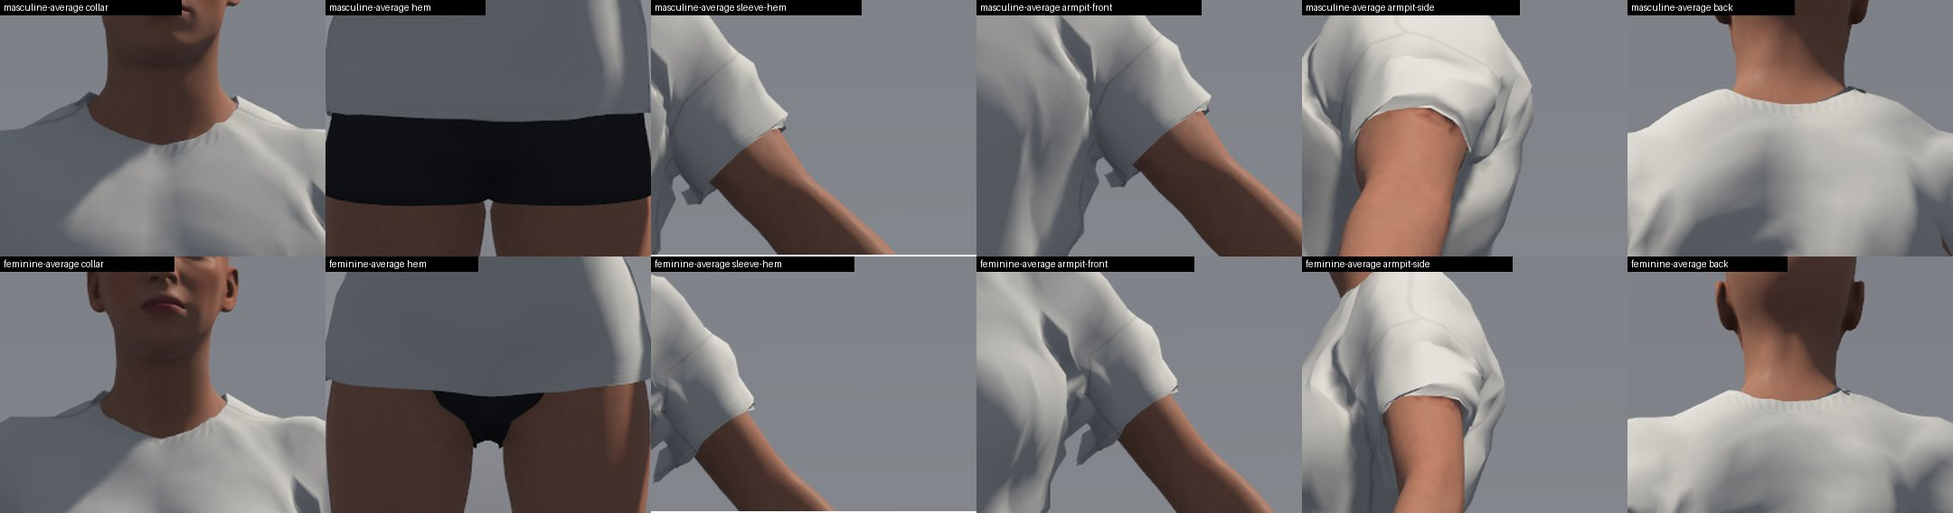
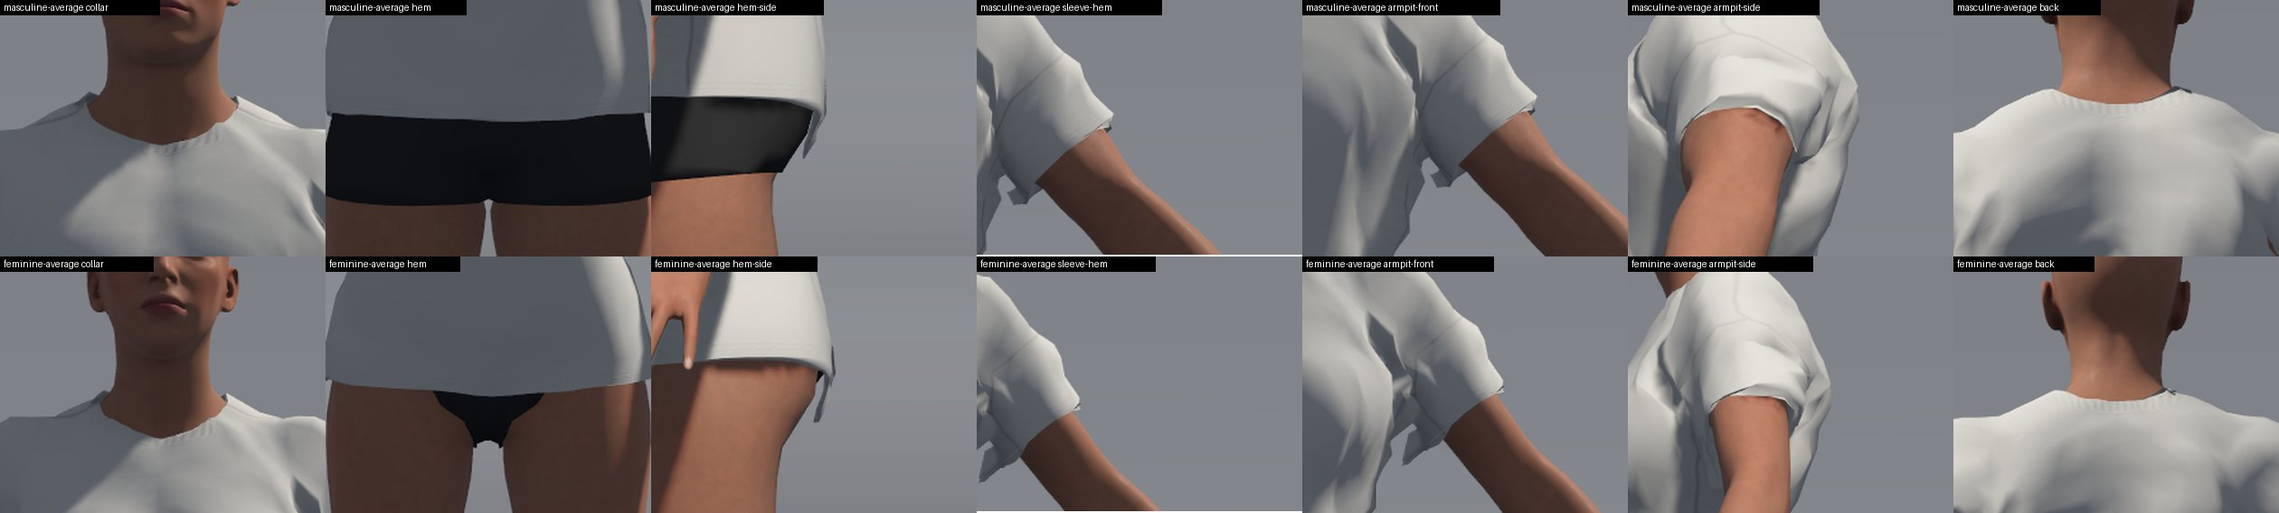
Wave 5 Licensed Tee: Review Fixes 2, the Hanging Hem Tab Traced to the Fit
The review found one blocking problem: an unreported defect and an
understated one. The tee still fails decision 13 and stays Draft.

- The tab below the waist hem is the hem's centre back. It hangs in a
  point 55 to 63 mm below the back hem on every cast body at rest, in
  the T-pose and with the elbows bent or the arms raised. With the arms
  forward it is 51 to 60 mm. In 5 of the 15 sampled walk frames it hangs
  free of the body. The gate's dumps trace it to the engine fit's
  between-corners pass. The pass pushes the hem's lower edge down round
  after round: 24 mm at rest, 67 mm after the extremes' lifts. The
  refined hem is level.
- Limiting the pass to a triangle's sagitta removes the tab (4 mm) but
  raises the tee's worst records. So it is measured as E8 and not
  committed.
- The arms-raised flaps are on every cast body: 323 to 374 triangles
  are stretched to 299 to 313 mm.
- The crop sheets gain a side-view hem tile. Two new sheets: hem-side
  and the traced dump.
- Non-blocking: intake.py's step table, the unwrap in section 1, and
  Known-Limitations' missing defects.

diff --git a/crates/player/src/tee_crew_tests.rs b/crates/player/src/tee_crew_tests.rs
@@ -309,6 +309,21 @@ fn the_licensed_tee_stays_steady_in_the_run() {
 // - The walk with the right arm back (Walk@0.367), masculine average,
 //   heavyset and muscular: a skin speck of 7 to 11 mm on the back of the
 //   right sleeve just above its hem.
+// - Arms raised, every cast body (front, side and back): flaps about 10
+//   to 15 cm long hang from both sleeves' undersides, the sleeve hems'
+//   turn-up stretched (323 to 374 triangles over twice their rest length,
+//   the longest edge 299 to 313 mm, on the ten cast bodies' dumps).
+// - Rest, the T-pose, the elbows bent, the arms raised and forward, every
+//   cast body (review fixes 2): the waist hem's centre back hangs in a point
+//   55 to 63 mm below the back hem beside the buttocks, into the cleft and
+//   free of the body below them; from the side it reads as a strip hanging
+//   behind the thighs (up to 26 to 34 mm behind the body's back edge). In
+//   the walk it is 11 to 54 mm, and it stands free of every cast body in 5
+//   of the 15 sampled frames (in 2 more on two). The engine fit made it: the
+//   refined hem is level (the point is 4 mm without the push-out's
+//   between-corners pass), and that pass pushes the hem's lower edge down along the
+//   cloth's normal there, round after round: 24 mm at rest, 67 mm after the
+//   extremes' lifts (`tee-licensed.md`, review fixes 2).
 
 const fn known(garment: &'static str, pose: &'static str, cases: usize, worst: f32) -> Known {
     Known {

diff --git a/assets/characters/realistic/import/intake.py b/assets/characters/realistic/import/intake.py
@@ -13,7 +13,7 @@ The steps, in order (each also runs alone: `python -I <step>.py --help`):
 | load | `load.py` | `loaded.npz`, `textures/` |
 | topology | `topology.py` | `topology.npz` (report, fixes, retopology help) |
 | conform | `conform.py` | `conformed.npz` (placed, posed to the rest pose) |
-| refine | `refine.py` | `refined.npz` (only with a `refine` block: resolution, cloth laid on the skin, bands, turned hems) |
+| refine | `refine.py` | `refined.npz` (only with a `refine` block: unwrap, bands, turned hems, maps) |
 | weights | `skinning.py` | `weighted.npz` |
 | levels | `levels.py` | `lod0.npz`, `lod1.npz`, ... |
 | checks | `checks.py` | `checks.json` (asset-quality.md section 2) |

diff --git a/docs/development/character-studio/refinement/wave5/tee-licensed.md b/docs/development/character-studio/refinement/wave5/tee-licensed.md
@@ -32,7 +32,7 @@ No dependency added (Pillow is part of the Blender Python environment the intake
 - **Record:** `assets/characters/realistic/clothing/tee-crew/Shirt_TeeCrew.provenance.json`, written by the intake from the spec.
   - Asset "Plain T-shirt" by Introspective Mnisi; source page `https://www.blendkit.com/asset-gallery-detail/cd6d0347-484a-426c-9c72-9b8c117ef500/`; licence CC0-1.0 (`https://creativecommons.org/publicdomain/zero/1.0/`); retrieved 2026-11-18.
[1 lines of base64/hex data omitted]
-  - Changes, as the intake listed them: 112 split corners welded; placed on the realistic body; a rib band from the faces along the neck; turned hems (3 mm thick, 18 to 20 mm turned up) at every open edge; maps baked again from Poly Haven's Cotton Jersey (CC0), the source's own maps dropped; simpler copies by decimation; fitted, rigged and given the body's shapes by the engine's fit; materials rebuilt.
+  - Changes, as the intake listed them: 112 split corners welded; placed on the realistic body; texture coordinates laid out again (Blender's conformal unwrap along the source's own seams; listed since review fixes 1); a rib band from the faces along the neck; turned hems (3 mm thick, 18 to 20 mm turned up) at every open edge; maps baked again from Poly Haven's Cotton Jersey (CC0), the source's own maps dropped; simpler copies by decimation; fitted, rigged and given the body's shapes by the engine's fit; materials rebuilt.
 - **Evidence** (`docs/.../wave5/tee-licensed/evidence/`, kept byte for byte by a `.gitattributes`). The record's `evidence` quotes each page and gives its hash:
   - the asset's page as retrieved (`asset-page-2026-11-18.html`, SHA-256 `4fd43b0c…f2`): "license: Creative commons zero", the author, "published 17 Sep 2026". The URL redirects to the asset's base ID, `126dea9d-…`;
   - BlenderKit's API record of the asset (`api-record-2026-11-18.json`, `a2df1cf1…20`): `license: cc_zero`, `verificationStatus: validated`;
@@ -94,6 +94,7 @@ Each row is the intake run again and the tee's whole gate (54 bodies: rest, Idle
 | E5 | E4 with a one-row fold | 34 / 13.5 | 48 / 19.9 | 54 / 19.3, 54 / 19.6, 54 / 22.3 | 54 / 23.5 | 36 / 14.4 | 35 / 14.4 | 34 / 13.5 | |
 | E6 | E4 + a gate rule: a turned hem's fold is a hem edge, grown two rings like an open edge (not committed) | 0 | 51 / 19.9 | 54 / 19.3, 54 / 14.0, 54 / 22.3 | 54 / 30.5 | 5 / 3.7 | 1 / 24.6 | 0 | |
 | E7 | E4 + the fold rule without growing it (not committed) | 1 / 4.7 | | | | | | | |
+| E8 | Final + the between-corners pass limited to the sagitta a triangle that size can have over a 4 cm limb (review fixes 2, not committed) | 4 / 36.7 | 53 / 24.9 | 54 / 39.2, 54 / 40.1, 54 / 39.3 | 54 / 38.7 | 9 / 25.0 | 6 / 37.9 | 4 / 42.3, 4 / 36.7 | run within its record; LOD1 13 / 13.2, LOD2 10 / 34.5 |
 | **Final** | E4 with the texture coordinates unwrapped (committed) | 7 / 28.2 | 53 / 37.9 | 54 / 32.5, 54 / 31.3, 54 / 32.0 | 54 / 30.2 | 14 / 28.2 | 7 / 28.2 | 8, 7 / 28.2 | walk passes (1.3 mm), **run 6.0 mm** |
 
 **What the table says.**
@@ -155,7 +156,8 @@ Lower them as the item improves; a production item has none.
 - `tee-<pose>.jpg`: the eight cast bodies (masculine slim, average, heavyset, muscular, then the same feminine), a row each, front, side and back, studio light, cropped to the upper body.
 - `tee-<pose>-hard.jpg`: the two average bodies under the hard light.
 - `before-after-<pose>.jpg`: the wave-4 crew tee (left three) against the licensed tee (right three) on the average bodies.
-- `crops-<pose>.jpg`: full-size crops of the collar, hem, sleeve hem, armpit (front and side) and back.
+- `crops-<pose>.jpg`: full-size crops of the collar, hem, sleeve hem, armpit (front and side) and back; since review fixes 2 also `hem-side`, the waist hem's back seen from the side.
+- `hem-side.jpg` (review fixes 2): the waist hem's back from the side on the eight cast bodies at rest, in the T-pose, the walk's passing frame, the walk with the right arm back and the arms forward. `hem-tab-traced.jpg`: the gate's dump drawn flat, the hanging centre back in red.
 
 The poses: `rest`, `walk-right-arm-forward` (`Walk@0.7`), `walk-passing` (`Walk@0.183`), `walk-right-arm-back` (`Walk@0.367`), `arms-raised`, `arms-forward`, and since review fixes 1 `t-pose` (`tee-t-pose.jpg`, `-hard.jpg`, `before-after-t-pose.jpg`, `crops-t-pose.jpg`, cropped wider for the arms; its crops take the underarm from the front and the back).
 
@@ -165,6 +167,7 @@ The poses: `rest`, `walk-right-arm-forward` (`Walk@0.7`), `walk-passing` (`Walk@
   - No skin through the cloth and no holes. The wave-4 tee next to it shows black holes at the waist on both bodies; the licensed tee has none.
   - **It is not natural.** Pushed out of the bodies from a smaller base, it hugs every form: the masculine pectorals, the scapulae and the spine's groove read through it like paint, and its back hem dips to a point over the buttocks.
   - On the feminine bodies the hem wraps the buttocks like a bodysuit (the back views).
+  - **The waist hem's centre back hangs in a point below the buttocks** on every cast body (found by the second review; measured in review fixes 2, below). From the side it reads as a strip hanging free behind the thighs (`hem-side.jpg`, `crops-rest.jpg` hem-side tiles).
   - **Small cloth tabs hang at the underarm** of every body, about 1 cm. Masculine average: the sleeve-hem crop (760, 215) and the armpit-front crop (1235, 215).
   - The neck band's rib and the hems' turned edges read. The neckline dips about 1 cm into a shallow V at the centre front (the collar crops).
   - The sleeve hem's edge on the masculine average shows a thin dark line where it meets the arm (the armpit-side crop, 1500 to 1560, 140).
@@ -173,7 +176,7 @@ The poses: `rest`, `walk-right-arm-forward` (`Walk@0.7`), `walk-passing` (`Walk@
   - **Skin specks through the belly** on the four masculine bodies, about 6 mm, just above the navel. Front column, about (204, 276), (204, 666), (204, 1056) and (204, 1440) in the sheet.
   - **The hem rides up into the crotch and wraps the thighs and buttocks**, worst on the feminine bodies: the tee reads as a bodysuit. The hem's corners follow the upper legs' weights.
   - The other walk frames (`tee-walk-right-arm-forward.jpg`, `tee-walk-passing.jpg`) show the same armpit flaps and the hem's wrap.
-- **Arms raised** (`tee-arms-raised-hard.jpg`). **Long dark flaps hang from the sleeves' undersides** on both bodies: flipped cloth about 8 to 10 cm long, worst in the side views. That is mesh separation, which the gate doesn't count.
+- **Arms raised** (`tee-arms-raised.jpg`, `tee-arms-raised-hard.jpg`). **Long flaps hang from the sleeves' undersides on every cast body**, in the front, side and back views (corrected in review fixes 2; the first hand-back said "both bodies", meaning the two on the hard-light sheet): flipped cloth about 10 to 15 cm long, worst in the side views. In the gate's dumps of the ten cast bodies, 323 to 374 triangles stretch over twice their rest length, the longest edge 299 to 313 mm, and 95% or more of them have a corner within 25 mm of an open edge (the sleeve hems' turn-up). That is mesh separation, which the gate doesn't count.
 - **Arms forward**: the shoulder's top by the neck and the front armpit, as the gate says (54 bodies). Added in review fixes 1: **a white cloth spike sticks out at the side of the armpit** in the side view of every cast body (`tee-arms-forward.jpg`, side column, under the sleeve; `crops-arms-forward.jpg`, armpit-side and sleeve-hem tiles of both average bodies). The sleeve-hem crop is now framed on the sleeve in the side view, where its end faces the camera; the first sheet's tile was empty background.
 - **Added in review fixes 1** (the review found these in the sheets; the first hand-back didn't report them):
   - **T-pose, detached strips under both arms, every cast body** (`tee-t-pose.jpg`, front and back columns; `crops-t-pose.jpg`, underarm-front and underarm-back). Two or three long, thin strips hang diagonally from the sleeve's underside towards the side, with background between them and the body: mesh separation. Visible length about 15 cm on the masculine average body (106 px at 1.45 mm a pixel, scaled by the arm span) and up to 20 cm on the feminine ones. The gate's dumps (`AXCENITY_FIT_GATE_DUMP`, masculine and feminine average) say what they are: triangles 3202 to 3204, 3363 to 3444 and their neighbours, at the sleeve's end under the arm, with rest edges of 1.2 to 4.8 mm (the sleeve hems' fold and turn-up: 793 of the tee's 853 triangles with an edge under 5 mm are in the hems' range), stretched 3 to 111 times, the longest edge 167 mm (masculine) and 200 mm (feminine). 203 of the 4,080 triangles stretch over 2 times in the T-pose on the masculine average body, 82 over 5 times. The hem's corners nearest the side are 27 to 37 mm from the skin at rest, and the fit gives them the side's weights while the rest of the hem follows the arm. The wave-4 crew tee shows no strips in the same pose (`before-after-t-pose.jpg`; it shows its waist holes). No skin comes out, so the gate's T-pose record (7 bodies, the hem edges) doesn't count them.
@@ -194,7 +197,7 @@ The poses: `rest`, `walk-right-arm-forward` (`Walk@0.7`), `walk-passing` (`Walk@
    - no simulated folds.
 5. **Authorship of the base isn't confirmed** (section 1).
 6. **No tint variants**: the intake's manifest writes none. Colour roles are declared.
-7. **Cloth-only defects the gate doesn't count** (review fixes 1, section 5): the T-pose underarm strips (every cast body, 15 to 20 cm), the arms-forward spike at the side of the armpit (every cast body), the dark lip above the rib at the back of the neck (every cast body, at rest and in the walk; a 1 cm tab with the right arm forward), and a 7 to 11 mm skin speck on the back of the right sleeve in the walk (three masculine bodies). The first two are the sleeve hems' fold triangles under the arm, weighted partly to the side: the sleeve's turn-up should take the sleeve's weights, not the nearest skin's. A stretch check in the gate (a garment triangle's edges posed against rest) would catch them; none exists.
+7. **Cloth-only defects the gate doesn't count** (review fixes 1 and 2, section 5): the waist hem's centre back hanging in a point 55 to 63 mm below the back hem, free of the body below the buttocks (every cast body, at rest, in the T-pose, with the elbows bent, the arms raised and forward, and in 5 of the walk's 15 sampled frames; made by the engine fit's between-corners pass, review fixes 2), the arms-raised flaps under both sleeves (every cast body, 10 to 15 cm), the T-pose underarm strips (every cast body, 15 to 20 cm), the arms-forward spike at the side of the armpit (every cast body), the dark lip above the rib at the back of the neck (every cast body, at rest and in the walk; a 1 cm tab with the right arm forward), and a 7 to 11 mm skin speck on the back of the right sleeve in the walk (three masculine bodies). The first two are the sleeve hems' fold triangles under the arm, weighted partly to the side: the sleeve's turn-up should take the sleeve's weights, not the nearest skin's. A stretch check in the gate (a garment triangle's edges posed against rest) would catch them; none exists.
 
 ## At merge
 
@@ -267,3 +270,89 @@ I regenerated the record with the intake's export: the command in section 2 with
 | `python3 -I scripts/check-wiki.py` | 115 pages, 0 errors, 57 warnings |
 
 **At merge.** Nothing new beyond the list above. If you rebuild `tee-crew/*` after the merge, the provenance record now has the unwrap line. The records and the gate are unchanged.
+
+## Review fixes 2
+
+The second review found one blocking problem: a visible defect nobody had reported, and a reported one understated. Both are now in section 5, Open issue 7, the records comment in `crates/player/src/tee_crew_tests.rs` and the Known-Limitations entry. **The tee still fails and stays Draft; it is not ready for sign-off.**
+
+**1. The tab below the waist hem.** It is real, on every cast body. One correction to the review: it isn't at the side seam. It is the waist hem's **centre back**, which hangs in a point into the cleft between the buttocks and below them. The side camera sees that point edge-on, as a thin strip hanging behind the thighs at the back of the silhouette. The gate's dump drawn flat with the hanging corners in red (`hem-tab-traced.jpg`) shows where it is: the red corners are all within 10 cm of the spine (x from -0.100 to +0.109 m on feminine average), none at a side seam. In the back view of the captures it is the hem's dip between the buttocks.
+
+How I measured it: the gate dumped every cast body (`AXCENITY_FIT_GATE_DUMP`, `AXCENITY_FIT_GATE_DUMP_ONLY=cast-`) at rest, in the T-pose, with the elbows bent, the arms raised and forward, and at all 15 sampled walk frames. On each dump I took the back hem's lowest point beside the buttocks (|x| 10 to 14 cm) and at the centre (|x| under 5 cm). I also drew the tee and the body as orthographic side silhouettes at 0.5 mm a pixel.
+
+| Pose (10 cast bodies) | Centre-back point below the back hem | Behind the body's back edge, side view |
+|---|---|---|
+| Rest, T-pose, elbows bent, arms raised | 55 to 63 mm (feminine 55 to 61, masculine 57 to 63) | up to 26 to 32 mm, over 62 to 104 mm of height |
+| Arms forward | 51 to 60 mm | up to 27 to 34 mm |
+| Walk, 15 sampled frames | 11 to 54 mm | free of every body in frames 11, 14, 32, 35 and 38 (18 to 32 mm); in frames 8 and 17 on two feminine bodies; lying on the leg in the other 8 |
+
+The reviewer read 6 to 7 cm on feminine average and 2 to 4 cm on the masculine bodies from the pictures. The dumps say the point drops about as far on both frames. On the masculine bodies it reads shorter because it hangs in front of the black boxer briefs (`hem-side.jpg`, masculine columns), not against the background.
+
+**What makes it: the engine fit, not the source or the refine.** I followed the hem's centre back through the intake. The texture coordinates matched 2,388 of the shipped LOD0's 2,407 corners to the refined mesh.
+- Conformed (the source as placed): the back hem is level, its lowest point between 0.859 and 0.862 m across the back.
+- Refined (hems added): the same, 0.857 to 0.861 m.
+- Shipped: the centre back at 0.791 m. 80 corners within 10 cm of the spine moved down by up to 67 mm, and 12 mm towards the body.
+
+I then ran the engine's import (`import_garment --placed`, the spec's margin and lower layers) on the refined `lod0.obj` with temporary switches in `avatar::fit`. They are not committed. The centre-back point below the back hem on the masculine base, with each change:
+
+| Fit | After the rest push-out | After the extremes' lifts | Shipped point |
+|---|---|---|---|
+| As committed | 0.834 m (24 mm down) | 0.791 m | 63 mm |
+| Without the between-corners pass | 0.856 m | 0.856 m | 4 mm (feminine frame 10 mm) |
+| Without the extremes' lifts | 0.834 m | — | 24 mm |
+| The pass limited to a triangle's sagitta (E8) | 0.857 m | 0.856 m | 4 mm (feminine frame 9 mm) |
+
+So the wave-5 between-corners pass in `needs()` (`transfer.rs`) makes the tab: the pass meant for skin between a coarse garment's corners. Below the hem, the underside of the buttocks faces down, the same way as the turned hem's lower edge. So the skin there passes the "facing" test (`OVER_FACING`) and counts as skin between the cloth's corners. The pass then pushes the edge down along the cloth's normal by up to `BETWEEN_CORNERS` (12 mm). The next round finds the next row of skin, and every extreme's lift round pushes again. That makes 24 mm at rest and 67 mm in all. The review's guess was the thigh's weights or the push-out; it is the push-out. Weights don't move a rest position.
+
+**A measured fix, not committed (E8 in section 3).** I limited the pass to the skin a triangle of that size can actually have between its corners: its sagitta over a 4 cm limb, longest edge² / (8 × 0.04 m), and never more than 12 mm. A turned hem's 1 to 5 mm triangles then can't be pushed, while the source's 24 to 50 mm panels still can. The point went from 63 mm to 4 mm, and every gate and wardrobe test that fits a garment at test time still passed (`fit_gate_tests`, `wardrobe_tests`: 34 of 34). But the re-exported tee's own gate got worse:
+- rest: 4 bodies at 36.7 mm, against the record of 7 at 28.2;
+- the walk thirds: 54 bodies at 39.2, 40.1 and 39.3 mm, against 32.5, 31.3 and 32.0;
+- the arms forward: 54 at 38.7 mm;
+- the elbows bent: 4 at 42.3 mm;
+- LOD1: 13 bodies at 13.2 mm.
+
+Records may only go down, so I put the tree back: `transfer.rs` from its saved copy, and the tee's files with `git checkout`. The diff and the re-exported tee are kept outside the repository. With the edge no longer pushed down, the skin just past the hem comes through further. The tab and the hem's poke-through are two sides of the same pass. A real fix needs the turned-hem gate rule (Open issue 3) together with a fit that knows a hem's fold from a panel. That is for the lead to decide.
+
+**2. The arms-raised flaps were understated.** The first hand-back said they hang "on both bodies", meaning the two average bodies on the hard-light sheet. The studio sheet `tee-arms-raised.jpg` shows them under both sleeves on all eight bodies, in the front, side and back views. I dumped the gate with the arms raised on the ten cast bodies and compared each triangle's edges with rest (`stretch.py`, as in review fixes 1):
+- 323 to 374 triangles stretch over twice their rest length;
+- the longest posed edge is 299 to 313 mm;
+- 95% or more of them have a corner within 25 mm of an open edge, the sleeve hems' turn-up.
+
+Section 5 now says "every cast body".
+
+**3. The crop sheets now inspect the side hem.** All five `crops-<pose>.jpg` have a `hem-side` tile: the waist hem's back seen from the side, on both average bodies. The tab shows in every one except `walk-right-arm-forward`, where the hand covers that place. `crops-walk-right-arm-forward.jpg`'s sleeve-hem tile was mostly background, so it is reframed onto the sleeve end; there it shows a white flap under the sleeve. `crops-rest.jpg` and `crops-walk-right-arm-forward.jpg` now take the sleeve hem where review fixes 1 framed it. Two sheets are new:
+- `hem-side.jpg`: the waist hem's back from the side on all eight cast bodies, in five poses;
+- `hem-tab-traced.jpg`: the gate dump drawn flat.
+
+The JPGs total 3.6 MB.
+
+What I saw, looked at whole and in crops:
+- **Rest, T-pose, arms forward:** a pale strip hangs below the back hem on all eight bodies.
+  - On the feminine bodies there is background between the strip and the thighs.
+  - On the masculine bodies it hangs in front of the boxer briefs' back edge.
+- **Walk, passing frame:** the same strip on all eight bodies.
+- **Walk, right arm back:** the hem's back curls under the buttock, with a small tab at its end on the feminine bodies.
+
+**Non-blocking items:**
+- Fixed:
+  - `intake.py`'s step table now says what `refine.py` makes: unwrap, bands, turned hems, maps. "Resolution" and "cloth laid on the skin" were experiment E2 and were never committed.
+  - Section 1's list of changes now names the unwrap, as the regenerated record does.
+  - Known-Limitations now lists the defects the hand-back reports that it had left out: the torn armpit flaps and the belly specks in the walk, the hem riding into the crotch, the arms-raised flaps, and the hem tab.
+- Settled by the review: the editor tests that the `needs()` change reaches. The reviewer ran `cargo nextest run -p axcenity-editor -E 'test(/character_workspace::/)'`: 151 run, 151 passed. This pass changes no code they use.
+- Corrected: section 4's "every existing gate and wardrobe record held with the fit change" proves something only for the garments the tests fit at test time: the gate's `TestTee` and the `fitting.rs` cases. Shipped items carry baked bindings and weren't imported again, so their records couldn't move. The same holds for the E8 run above.
+- The brown ovals in the review's elbows-bent captures: the reviewer found them to be the pose's own fingertips pressing into the chest and the cloth, not a tear in the tee. I haven't looked at them again.
+- Not done:
+  - A second source entry in the provenance record for the Poly Haven Cotton Jersey tile, with its URL, licence page and hash. That needs a change to `provenance.py`'s record and a regenerated record. The tile is covered at repository level by `clothing/fabrics.py` and `references/README`. For the lead to decide.
+  - The between-corners pass still builds a new cloth `Surface` on every call, and it still skips a turned hem's inner layer (`OVER_FACING`). Its effect on the hem is now measured (above).
+
+**Tests run:**
+
+| Run | Result |
+|---|---|
+| The gate dumps: `AXCENITY_FIT_GATE_DUMP=<folder> AXCENITY_FIT_GATE_DUMP_ONLY=cast- cargo nextest run -p axcenity-player -E 'test(/tee_crew_tests::the_licensed_tee_covers_the_cast_(at_rest\|with_the_elbows_bent\|with_the_arms_forward\|with_the_arms_out\|through_the_walk_first_third)$/)'`, then the arms raised and the walk's other thirds | 8 run, 8 passed; the dumps measured above |
+| E8 (temporary, reverted): `AXCENITY_FIT_SAGITTA=1 cargo nextest run -p axcenity-player --no-fail-fast -E 'test(/tee_crew_tests::/) \| test(/fit_gate_tests::/) \| test(/wardrobe_tests::/)'` on the tee exported again | 45 run: 34 passed, 11 failed. All 11 are `tee_crew_tests` gate cases whose measurements no longer match their records (some above, some below); the numbers are above |
+| `cargo nextest run -p axcenity-avatar -p axcenity-player --no-fail-fast` (the tree as committed) | Summary [211.197s] 472 tests run: 472 passed (15 slow), 23 skipped; no ABORT lines |
+| `cargo clippy -p axcenity-avatar -p axcenity-player --all-targets -- -D warnings` | clean |
+| `cargo fmt --all -- --check` | clean |
+| `python3 -I scripts/check-wiki.py` | 115 pages, 0 errors, 57 warnings |
+
+**At merge.** Nothing new. Only comments and docs changed in code: the records comment in `tee_crew_tests.rs` and `intake.py`'s step table. The tee's files, the gate and the records are as before. Five crop sheets were regenerated, and two sheets are new (`hem-side.jpg`, `hem-tab-traced.jpg`). **For the lead to decide:** the between-corners pass makes the hem tab, and the measured limit (E8) trades it for worse hem poke-through. Decide that together with the turned-hem gate rule (Open issue 3).

diff --git a/wiki/Roadmap/Known-Limitations.md b/wiki/Roadmap/Known-Limitations.md
@@ -57,7 +57,7 @@ The Character Runtime (Character Studio overhaul CO3; [Characters](../Engine-Sys
 - **Realistic skin: shading limits** (2026-11-17, R5; `docs/development/character-studio/refinement/r5/`). Fixed: the grain and the stippled terminator (the Skin shading model reads the normal map blurred for diffuse light, and the grain's cells are now 5 texels and half as steep), under TAA and MSAA alike; heavy bodies no longer show abdominal lines (a smooth and a defined normal map, blended by muscle and fat), and keep their navel (the smooth map keeps the sculpt's forms within 2 cm of it); since the review fix (2026-11-17) no saturated red fills an ear's fold, a nostril's corner, the crease under the eye or the nose's shadow on the upper lip, and a passing cloud doesn't redden skin; since the second review fix a normal map's slope past the triangles' own terminator (the navel's inner wall in a body's shadowed half) no longer glows. Left: under a hard light a few dozen pixels of a face (an ear's rim, the lips' edges) are still a little redder than before R5 (red over green up to about 2.4 in sRGB, against 2.0); there is no screen-space subsurface blur or transmission, so light doesn't bleed past shadow-casting geometry (ears and nostrils lit from behind stay opaque); the curvature that sets how far red spreads comes from screen-space derivatives, constant per triangle; close up the grain is now pores and fine lines rather than a network of cells (since the R5 makeup branch; it read as cracked skin), and since its review the Skin model draws pores and fine lines finer than the maps from the texture coordinates (about 100 pores to a square centimetre on the face); they fade out where a pore cell is under two pixels, so from a face-front distance down they leave no trace, and their pattern is the same on every character (seeded by the texture coordinates, not the description); the smooth normal map flattens the soft tissue's forms by 90% everywhere fat covers it, not by region. Without TAA (High and Ultra default to MSAA 4×, and Character Studio's viewport uses the editor's graphics settings) contact shadows keep their fixed pattern, so a limb in front of the body from the camera's view (not between the body and the sun) still casts a false screen-space contact shadow (it passes contact shadows' 0.5-stud thickness test); a fix is a thinner thickness for characters, or testing the blocker's depth gap against the march distance. The chest's dark band under the studio light (OPEN-09) is the light grazing the upper chest: the shadow terminator problem of a coarse mesh with smooth normals; not fixed.
 - **Makeup and markings: limits** (R5 makeup branch, [ADR-0042](../Architecture/Architecture-Decisions/ADR-0042-Makeup-And-Markings-Are-Layers-Over-Library-Masks-Drawn-Live-By-The-Skin-Model.md)). Nine fixed layers (foundation, blush, eyeshadow, eyeliner, lip colour, brow fill, freckles, moles, one scar on the left cheek): the masks' channel layout is fixed, so a new kind needs a fourth mask or the decal path, and tattoos, birthmarks and placed marks are not built (ADR-0042's decals). The masks are 2K like the skin maps, so eyeliner is two to three texels wide on the face and its wing (since the review, 6.6 mm along the lower lid's line at 22 degrees) is a short flick; brow fill barely shows round the realistic brows' dense card. Freckles and moles are a fixed population of 13,000 and 70 candidate spots chosen by amount and seed: a seed can't move a spot, only pick others. Ray-traced reflections and GI see the skin without makeup. A skin with a layer on loses its own emissive and opacity maps (none of the shipped skins has them).
 - **The first realistic wardrobe is three drafts** (2026-11-18, R7 wave 4; `assets/characters/realistic/clothing/`, `refinement/wave4/r7-wardrobe-first.md`): a crew-neck tee (FreeSewing Teagan), joggers (Paco) and court sneakers, made by a sewn-and-draped pipeline and fitted by `avatar::fit`, waiting for Paul's sign-off of each kind. None passes asset-quality §2 and §3, so none is in a preset or drawn by Randomize: skin comes out of the joggers under the cuffs at the back of the ankles (53 of 54 bodies, up to 31 mm at rest) and of the tee round the waist over the joggers' waistband (38 bodies, 28 mm; every body in the walk and with the arms raised, up to 42 mm in Idle); the joggers' drawcord and waistband come through the tee's hem (every body, 18 mm), the boxer briefs through the joggers (33 bodies, 9 mm), the bra through the tee (21 bodies, 5.4 mm); the tee's crew neck is faceted (22 straight runs at LOD0, up to 39 mm) with tabs of the shell above the band at the shoulder seams, and its lower back bulges out over the seat (roughly 80 to 100 mm, read off the side views) with the hem flaring at the hips on heavyset bodies; the simpler copies cut into the skin (up to 31 mm); the tee's armpit jolts in motion (2.4 mm a frame in the walk, 5.1 in the run); the sneakers let the heel and toes out in the stride (up to 11.3 mm) and their tread tilts with the foot (up to 9.8 mm off flat); texture coordinates are well short of §2 on most materials (the tee's jersey 51.7% within 10% stretch, the sneakers' upper 3.4%; only the tee's rib and the shoes' lining have 8 px/cm on all of their area); two hem corners are turned less than 2 mm (the tee's side hem 1.4 mm, a joggers' cuff 1.92 mm) and drawn quads aren't folds the cloth had in the bent poses (binding has no compression folds at the elbows and knees). Every number is a record in `realistic_wardrobe.rs` and `wardrobe_tests.rs`. Randomize draws Production items only, and Character Studio lists the three drafts only for content review (the View menu), marked "Draft" (ADR-0043).
-- **The first licensed tee is a draft that fails the walk** (2026-11-18, wave 5; `refinement/wave5/tee-licensed.md`): BlenderKit's Plain T-shirt (CC0; authorship by the uploader not confirmed, recorded in its provenance) through the intake with turned hems (3 mm thick), a rib neck band and maps baked from Poly Haven's Cotton Jersey. It fails the walking fit test on every gate body (up to 32 mm), Idle (53 bodies, 38 mm) and the arms raised forward (54 bodies, 30 mm) at the armpit, as every tee before it, and at the hems' edges at rest and in every pose (7 to 14 bodies, 28 mm): the gate's two-ring hem zone is measured in from the open edge, which a turned hem has inside, so skin just past the fold counts as covered (a fold rule was measured, not committed: the lead's decision). The run jolts its armpit 6 mm in a frame. The captures also show cloth-only defects no record counts (review fixes 1, `tee-licensed.md` section 5): in the T-pose, on every cast body, strips about 15 to 20 cm long hang detached from both underarms, the sleeve hems' fold triangles stretched up to 111 times between corners that follow the arm and corners that stay with the side; with the arms forward the same triangles stick out as a white spike at the side of the armpit; at rest and in the walk a dark lip about 4 cm long shows above the rib at the back of the neck, right of the spine (a light tab of about 1 cm with the right arm forward), so the back isn't clean; and with the right arm swung back a skin speck of 7 to 11 mm shows on the back of the right sleeve on three masculine bodies. LOD1 and LOD2 cut into the skin (10 bodies at 12 mm, 54 at 31 mm); LOD0's texture is stretched over 10% on 6.5% of its area (the limit is 5%), the simpler copies' on 37% and 65%; its shipped weights reach past the next joint on 1,919 of its corners (asset-quality §2). Without the turned hems the same fit passed rest and the elbows and knees bent: the fit's push-out now also keeps the body's corners under a coarse garment's triangles (`avatar::fit`, wave 5), which that took from 52 failing bodies at rest to none. Records in `tee_crew_tests.rs`.
+- **The first licensed tee is a draft that fails the walk** (2026-11-18, wave 5; `refinement/wave5/tee-licensed.md`): BlenderKit's Plain T-shirt (CC0; authorship by the uploader not confirmed, recorded in its provenance) through the intake with turned hems (3 mm thick), a rib neck band and maps baked from Poly Haven's Cotton Jersey. It fails the walking fit test on every gate body (up to 32 mm), Idle (53 bodies, 38 mm) and the arms raised forward (54 bodies, 30 mm) at the armpit, as every tee before it, and at the hems' edges at rest and in every pose (7 to 14 bodies, 28 mm): the gate's two-ring hem zone is measured in from the open edge, which a turned hem has inside, so skin just past the fold counts as covered (a fold rule was measured, not committed: the lead's decision). The run jolts its armpit 6 mm in a frame. The captures also show cloth-only defects no record counts (review fixes 1, `tee-licensed.md` section 5): in the T-pose, on every cast body, strips about 15 to 20 cm long hang detached from both underarms, the sleeve hems' fold triangles stretched up to 111 times between corners that follow the arm and corners that stay with the side; with the arms forward the same triangles stick out as a white spike at the side of the armpit; at rest and in the walk a dark lip about 4 cm long shows above the rib at the back of the neck, right of the spine (a light tab of about 1 cm with the right arm forward), so the back isn't clean; and with the right arm swung back a skin speck of 7 to 11 mm shows on the back of the right sleeve on three masculine bodies. Also seen (review fixes 2): torn, flipped flaps at the front of the armpit and skin specks on the masculine belly in the walk; the hem riding into the crotch and wrapping the buttocks, so the feminine bodies look like they wear a bodysuit; flaps 10 to 15 cm long under both sleeves with the arms raised, on every cast body; and, on every cast body at rest, in the T-pose, with the elbows bent, the arms raised and forward and in a third of the walk's frames, the waist hem's centre back hanging in a point 55 to 63 mm below the back hem beside the buttocks, free of the body below them (a strip behind the thighs from the side). The engine fit made that point: the push-out's between-corners pass (wave 5) moves a turned hem's downward-facing fold along its normal round after round (24 mm at rest, 67 mm after the extremes' lifts). Limiting the pass to the sagitta a triangle that size can have removes the point (4 mm) but raises the tee's worst records (rest 28 to 37 mm, the walk 32 to 40 mm), so it wasn't committed. LOD1 and LOD2 cut into the skin (10 bodies at 12 mm, 54 at 31 mm); LOD0's texture is stretched over 10% on 6.5% of its area (the limit is 5%), the simpler copies' on 37% and 65%; its shipped weights reach past the next joint on 1,919 of its corners (asset-quality §2). Without the turned hems the same fit passed rest and the elbows and knees bent: the fit's push-out now also keeps the body's corners under a coarse garment's triangles (`avatar::fit`, wave 5), which that took from 52 failing bodies at rest to none. Records in `tee_crew_tests.rs`.
 - **Binding-fitted items: the fitting core's limits** (CO9, `avatar::fit`: a garment imported or built takes the body's weights and identity and corrective shapes, pushed out of the body and lower layers). Its limits, measured on the test tee (`crates/avatar/tests/fixtures/test-tee`, a draft with a closed underarm, sleeves past the armpit and, since wave 4, an ordinary crew neck lying on the skin, the sports bra's straps having moved onto the shoulders; it passes the gate at rest, in the T-pose and with the elbows or knees bent; with the arms raised it fails on 1 body, 2.9 mm, at the neck's sides under the collar (the shoulder's cloth flipped over them), and folds into visible flaps under the arm on the feminine bodies, no skin through): it fails the walking fit test (Paul's decision 13; since wave 5 the gate runs the whole stride, every third frame) on all 54 gate bodies in every third of the stride, up to 16.5 mm, and with the arms raised forward on 44 bodies, 9.4 mm, at the arm's inner skin and the torso's side under the arm, where the hanging arm closes on the side and the bridge of cloth between them can't fold into the crease; the bra comes through it there (20 bodies in every third of the stride, up to 17 mm; 15 bodies with the arms forward). In 4K captures (`refinement/wave5/tee-walk/`; `tee-walk.md` gives each defect with its body and place): in the walk, a slit about a centimetre long at the front of the armpit of the arm swung back shows skin on the masculine bodies and the black bra on the feminine heavyset body, and cloth spikes, a black triangle (the bra or the shirt's inside) and light flakes show at the back of the armpit of the arm swung forward; with the arms raised forward (the gate's 44 bodies, 9.4 mm), skin specks of 3 to 5 mm show at the front armpit fold on the masculine slim, average and heavyset bodies, and a sliver of black bra about 16 mm long on the feminine heavyset body; at rest and in the walk, a cloth tab of about 5 mm sticks up at the back of the shoulder seam on the feminine bodies (and on three masculine ones in the walk). The gate doesn't count the tab, the spikes or the arms-raised flaps, because no skin comes out. Wave 4's records (54 bodies, 30 mm in the walk frame) were mostly the gate's measure, not the cloth: 94% of those corners (2,660 of 2,822) were enclosed by the tee (their way out along the normal met the cloth from inside, 17 to 35 mm out) while another part of it, a sleeve beside the chest or the torso's panel beside the arm, came nearer than the cloth over them; wave 5 corrected the measure (`fit_gate_tests::enclosed`, with the hit triangle's posed face required to agree with its smooth normal: a fold flipped in the walk faces the skin with its culled back) and the walk frame's record fell to 38 bodies, 10.2 mm, with the fit unchanged. Wave 5 also tried, and dropped: a posed push of the cloth out of the covered skin through the correctives (it didn't converge in the fit's own poses and made the walk worse, up to 40 mm), splitting the weights so the sleeve follows the arm and the side panel the trunk, fit poses at the walk's own corrective weights, more weight smoothing and no posed follow (each left 49 to 54 bodies at 13 to 20 mm). The wave-4 realistic crew tee fails the stride on every body, up to 38.7 mm (round the waist as at rest, and at the arm, the armpit and the chest). Hiding the skin it covers is no way round this: CO9 part 2's review fixes 1 hid the torso and the upper arm under the sleeve and the walk record fell to 50 bodies at 23.7 mm, but the hidden skin came out from under the cloth (holes: up to 38 mm in the walk on 38 bodies, the arm's edge bitten away below the sleeve's end in 4K captures, and 45 mm at rest under the arm on 25 heavy bodies), so since review fixes 2 an import hides only regions whose skin stays covered in every fit pose (`avatar::fit::pose_safe_hides`; the tee: the waist) and the gate counts holes in every pose. The cause is the arm hanging against the side, not its swing: the tee's underarm, made with the arm at 45 degrees, can't fold into the crease, and the arms hanging alone fail the same. Wave 4's swing correctives (`Corrective_Shoulder_Forward_*`, `_Back_*`) take the body's own fold out (the 95th percentile of its depth 10.6 to 4.9 mm) but not this; the import's posed fit (the garment's copies of the correctives made to follow the skin) barely changes it, and pushing the cloth out in the pose made every pose worse. The tee's armpit also jolts in the motion check (4.1 mm a frame in the walk, 11.7 in the run, `player` `garment_checks`). Loose garments need cloth proxies, deformer maps or a garment made with the arms down (ADR-0035). The import's fine alignment can't tell a size a little bigger from a more even ease (about 2%), and it assumes the same ease all round: a shirt lying on the shoulders with its collar on the skin (the wave-4 test tee) made 5% small and 3 cm high is only 13% more even at its true place, under the 20% and 2 mm the fine fit needs, so it isn't moved (the alignment test uses the wave-3 tee, `TestTeeEvenEase.obj`).
 - **A character's parts pick their levels of detail one by one.** A small part (underwear, eyes, brows) switches to a simpler copy nearer the camera than the body does, and a simplified garment doesn't keep its clearance from the skin: from about 9 studs the stylized character's skin shows through its underwear in blotches (seen in CO2's in-engine captures, which record each part's level in `captures.json`; confirmed in CO9 part 2's review fixes: the capture draws the underwear at level 1 and the body at 0, and the masculine briefs forced to full detail with `AXCENITY_CAPTURE_FULL_DETAIL` show no skin; the feminine briefs at full detail still show skin on the right buttock in the walk, their own clearance, below). Fixing it is CO18's "character LOD sets switched together", with CO9's region hiding (the body under a garment isn't drawn) and CO4's constrained LODs; until then judge clothing fit in the captures' full-detail view and in the Blender harness.
 - **Compute posing (CO8) has a ceiling and a few gaps** (2026-11-17, [ADR-0041](../Architecture/Architecture-Decisions/ADR-0041-Shared-Base-Mesh-With-Live-Identity-Morphs-Baking-Is-Optional.md), `docs/rendering/animation.md`). Each animated character is now morphed (only shapes with a weight) and skinned once a frame, and every pass and ray tracing read that: 50 realistic characters of distinct live descriptions take 1.5 ms of GPU on an RX 9070 XT against 9.6 ms before, and 20 take 1.2 ms against 4.7 ms (`docs/development/character-studio/refinement/wave3/co8-compute-posing.md`). Left: the posing arena (every posed mesh's corners, joints and weights, and the moves of each shape that has been active) must fit one storage binding (128 MB by default; 50 distinct baked characters take 80 MB with its slack), and items past it are drawn at rest with a warning; the arena and the CPU copy each animated mesh keeps of its joints, weights and shapes cost memory the per-pass path didn't (7.5 MB of posing buffers for one live realistic character, 45 MB for 50); 20 live realistic characters (1.22 ms) are still slower than 20 stylized ones were (0.97 ms), the gap being the realistic skin material and the posing pass itself; and GI traced in software (`ray_soft.rs`, GPUs without ray queries) still leaves skinned items out.
